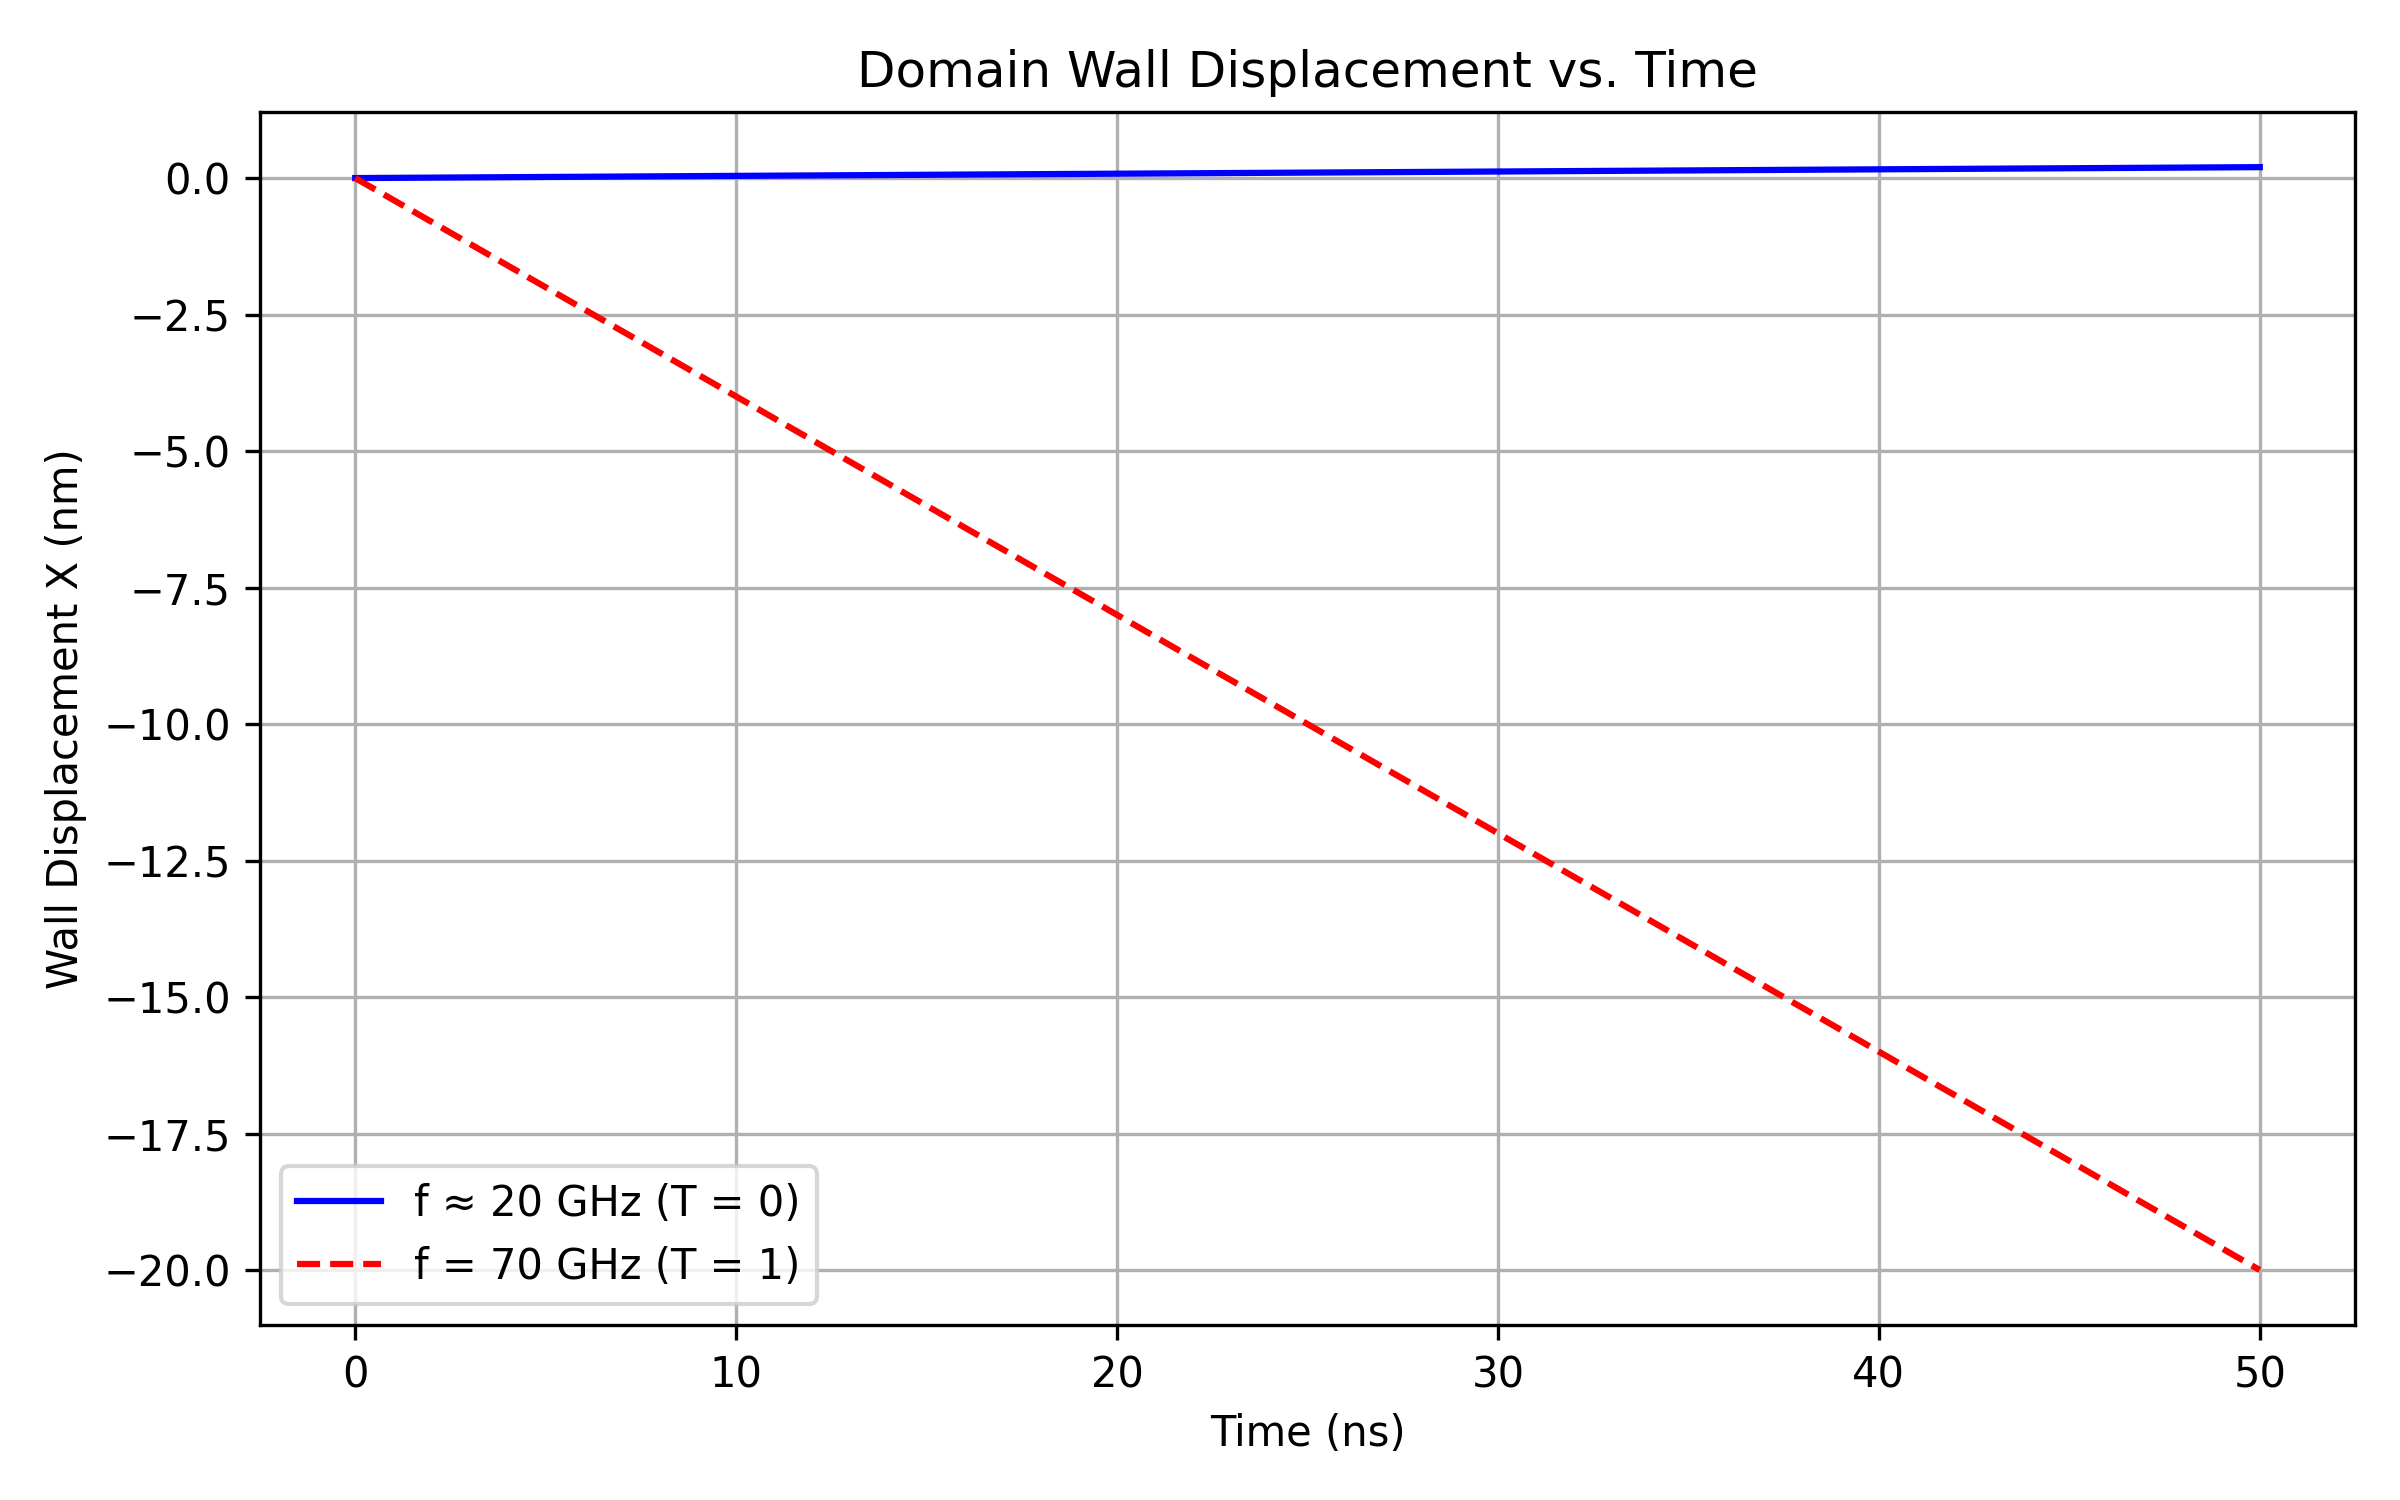
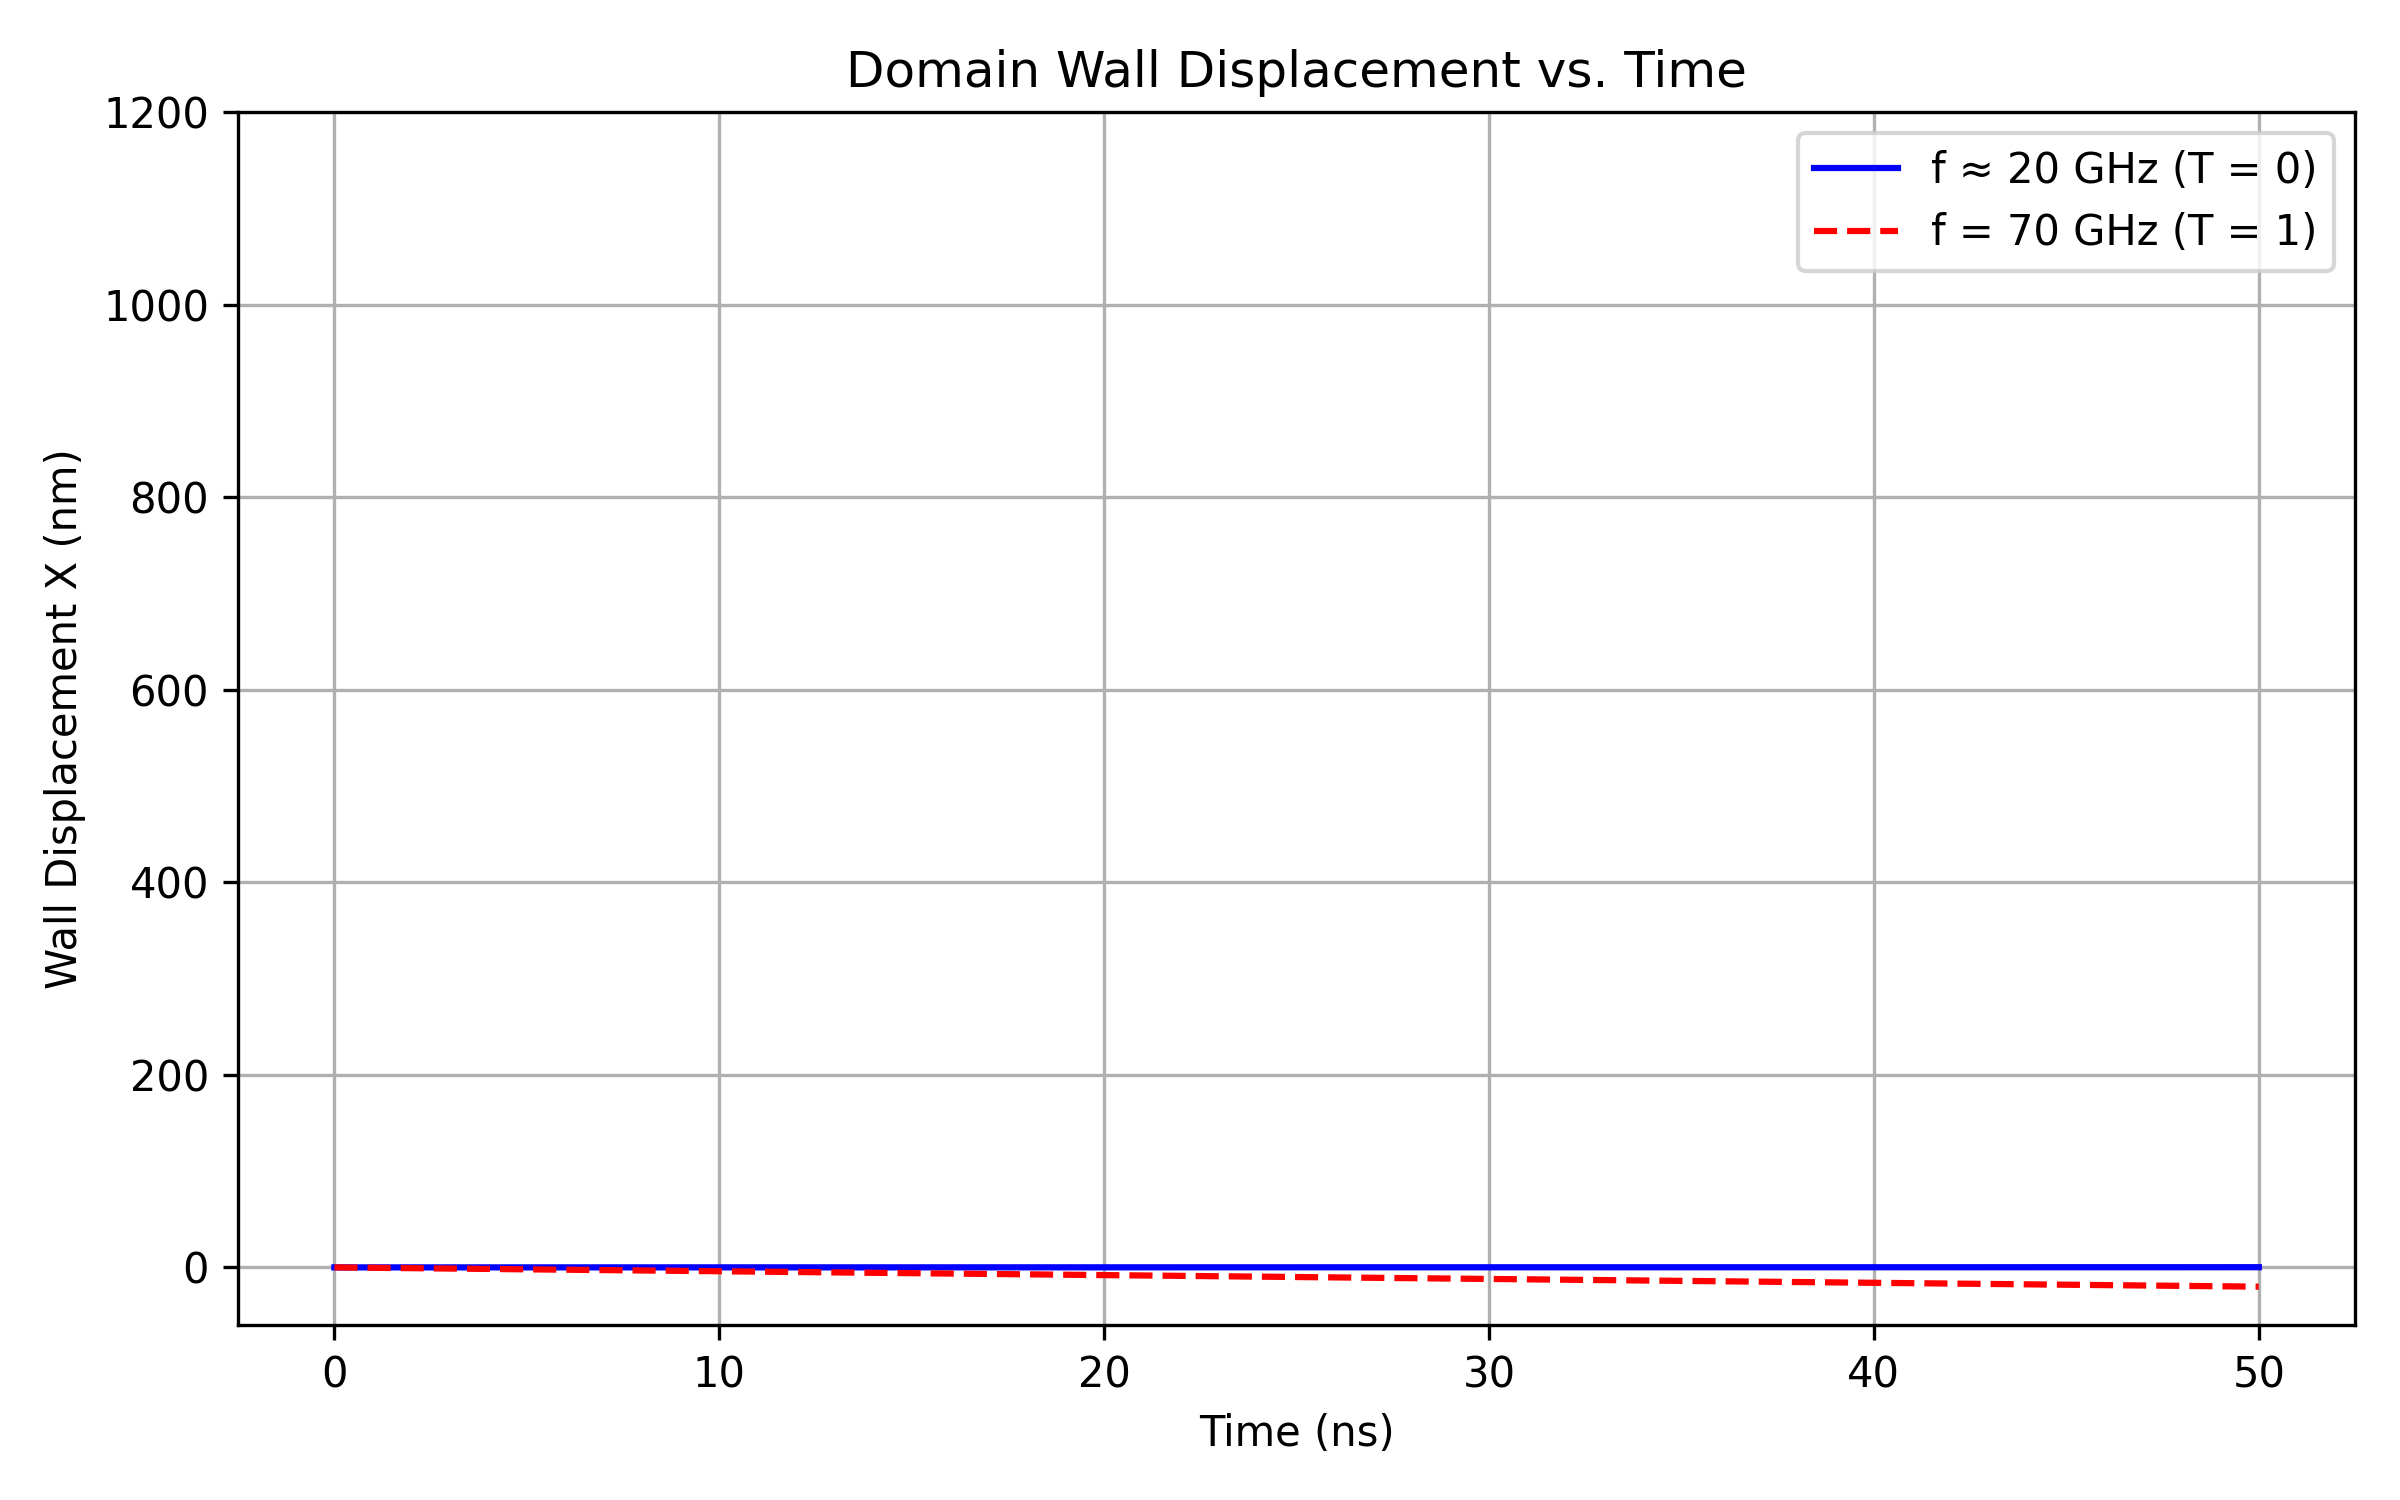
img new

diff --git a/new.py b/new.py
@@ -13,20 +13,18 @@ Nx_minus_Ny = 0.05          # Difference in demagnetizing factors
 Kd = (Nx_minus_Ny) / (2 * mu0 * Ms**2)
 
 # Effective spin-wave parameter u.
-# u is chosen such that for T = 0 the wall is pushed forward (positive X)
-# and for T = 1 the wall is pulled backward (negative X).
 u = 0.4  # effective spin velocity in m/s (adjust as needed)
 
-# Precompute denominator (1+alpha^2)
+# Precompute denominator (1+alpha^2) and the factor A
 denom = 1 + alpha**2
-A = gamma * (Kd / (mu0 * Ms))  # factor multiplying sin(2phi)
+A = gamma * (Kd / (mu0 * Ms))
 
 def wall_dynamics(t, y, T):
     """
     y[0] = X (wall position)
     y[1] = phi (tilt angle in radians)
     
-    T: transmission coefficient (T ~ 0: nearly full reflection; T ~ 1: nearly full transmission)
+    T: transmission coefficient (T ~ 0 for mostly reflected spin waves, T ~ 1 for mostly transmitted)
     """
     X, phi = y
     dX_dt = (1/denom) * ( A * np.sin(2 * phi) - T * u + (1 - T) * alpha * u )
@@ -41,16 +39,15 @@ t_eval = np.linspace(t_start, t_end, 1000)
 # Initial conditions: wall at X = 0 and phi = pi/2
 y0 = [0, np.pi/2]
 
-# Case 1: Low-frequency (20 GHz) with nearly full reflection (T ~ 0).
+# Case 1: Low-frequency (≈20 GHz) with nearly full reflection (T ~ 0)
 T_low = 0.0  
 sol_low = solve_ivp(wall_dynamics, [t_start, t_end], y0, args=(T_low,), t_eval=t_eval)
 
-# Case 2: High-frequency (70 GHz) with nearly full transmission (T ~ 1).
+# Case 2: High-frequency (70 GHz) with nearly full transmission (T ~ 1)
 T_high = 1.0  
 sol_high = solve_ivp(wall_dynamics, [t_start, t_end], y0, args=(T_high,), t_eval=t_eval)
 
 # Plot the wall displacement X(t) for both cases.
-# Convert time to nanoseconds and displacement to nanometers.
 plt.figure(figsize=(8, 5))
 plt.plot(sol_low.t * 1e9, sol_low.y[0] * 1e9, label='f ≈ 20 GHz (T = 0)', color='blue')
 plt.plot(sol_high.t * 1e9, sol_high.y[0] * 1e9, label='f = 70 GHz (T = 1)', color='red', linestyle='--')
@@ -59,6 +56,9 @@ plt.ylabel('Wall Displacement X (nm)')
 plt.title('Domain Wall Displacement vs. Time')
 plt.legend()
 plt.grid(True)
+
+# Set the y-axis limits as specified: from -60 nm to 1200 nm
+plt.ylim(-60, 1200)
 plt.tight_layout()
 
 # Save the figure in PNG format
